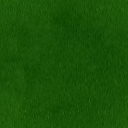
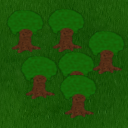
Graphical interface works

diff --git a/flyweight-generation/src/main/java/Game.java b/flyweight-generation/src/main/java/Game.java
@@ -9,19 +9,17 @@ public class Game {
     private static Map map;
     private static String[] types = new String[]{"wilderness", "city"};
     public static void main (String[] args) {
-//        Scanner scanner = new Scanner(System.in);
-//        System.out.println("1. Wilderness");
-//        System.out.println("2. City");
-//        System.out.print("Specify type of map: ");
-//        int mapType = scanner.nextInt();
-//        System.out.print("Specify size of map (2-25): ");
-//        int size = scanner.nextInt();
-//        if (size < 2 || size > 25) {
-//            System.out.println("Size must be between 2 and 25.");
-//            return;
-//        }
-        int mapType = 2;
-        int size = 25;
+        Scanner scanner = new Scanner(System.in);
+        System.out.println("1. Wilderness");
+        System.out.println("2. City");
+        System.out.print("Specify type of map: ");
+        int mapType = scanner.nextInt();
+        System.out.print("Specify size of map (2-25): ");
+        int size = scanner.nextInt();
+        if (size < 2 || size > 25) {
+            System.out.println("Size must be between 2 and 25.");
+            return;
+        }
         Map _map = createMap(types[mapType - 1], size);
         RenderMap.setMap(_map);
         RenderMap.launch(RenderMap.class);

diff --git a/flyweight-generation/src/main/java/RenderMap.java b/flyweight-generation/src/main/java/RenderMap.java
@@ -44,7 +44,7 @@ public class RenderMap extends Application {
             for (int x = 0; x < map.getTiles()[y].length; x++) {
                 int tile = map.getTiles()[y][x];
                 Image img = tgf.getImage(tile);
-                gc.drawImage(img, x * TILE_SIZE, y * TILE_SIZE);
+                gc.drawImage(img, x * TILE_SIZE, y * TILE_SIZE, TILE_SIZE, TILE_SIZE);
             }
         }
     }
